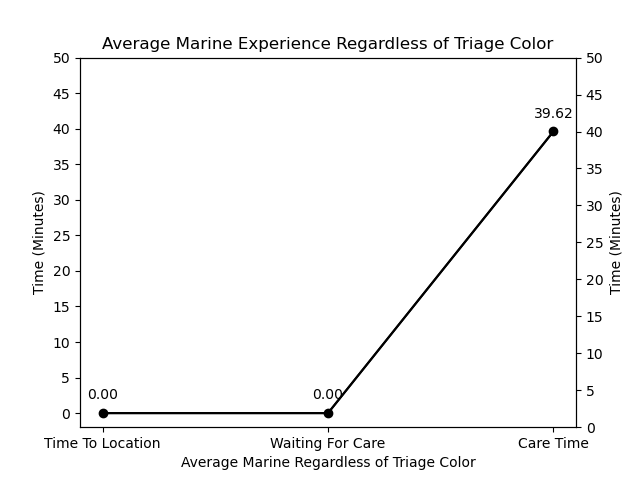
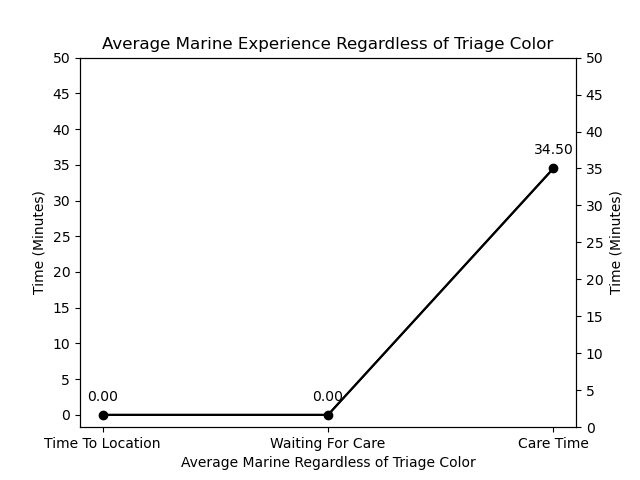
Add all data output +  bigger sample example data

diff --git a/main.py b/main.py
@@ -53,10 +53,10 @@ Purpose: All the variables and parameters that are needed throughout the program
 """
 class VariablesAndParameters:
     #Sim Details
-    warm_up = 1
-    number_of_runs = 20
+    warm_up = 5
+    number_of_runs = 50
     run_number = 0
-    duration_of_simulation_in_minutes = 40
+    duration_of_simulation_in_minutes = 60
     simulation_time = (duration_of_simulation_in_minutes * 60)
     #A Note On Warm Up Variable:
     #For event simulations, it's important to include some warm-up runs so that the data you glean is as accurate to
@@ -193,6 +193,9 @@ class Calculations:
     priority_count = pandas.DataFrame()
 
     def get_data():
+        #OUTPUT ALL DATA WITHOUT CALCULTIONS
+        Track.simplified_dataframe.to_csv("outputs/csv/all_marines.csv")
+        
         #FIND AVERAGES
         Calculations.red_averages["MEAN"] = Calculations.red_averages.mean(axis=1)
         Calculations.red_averages.loc["MEAN"] = Calculations.red_averages.mean()
